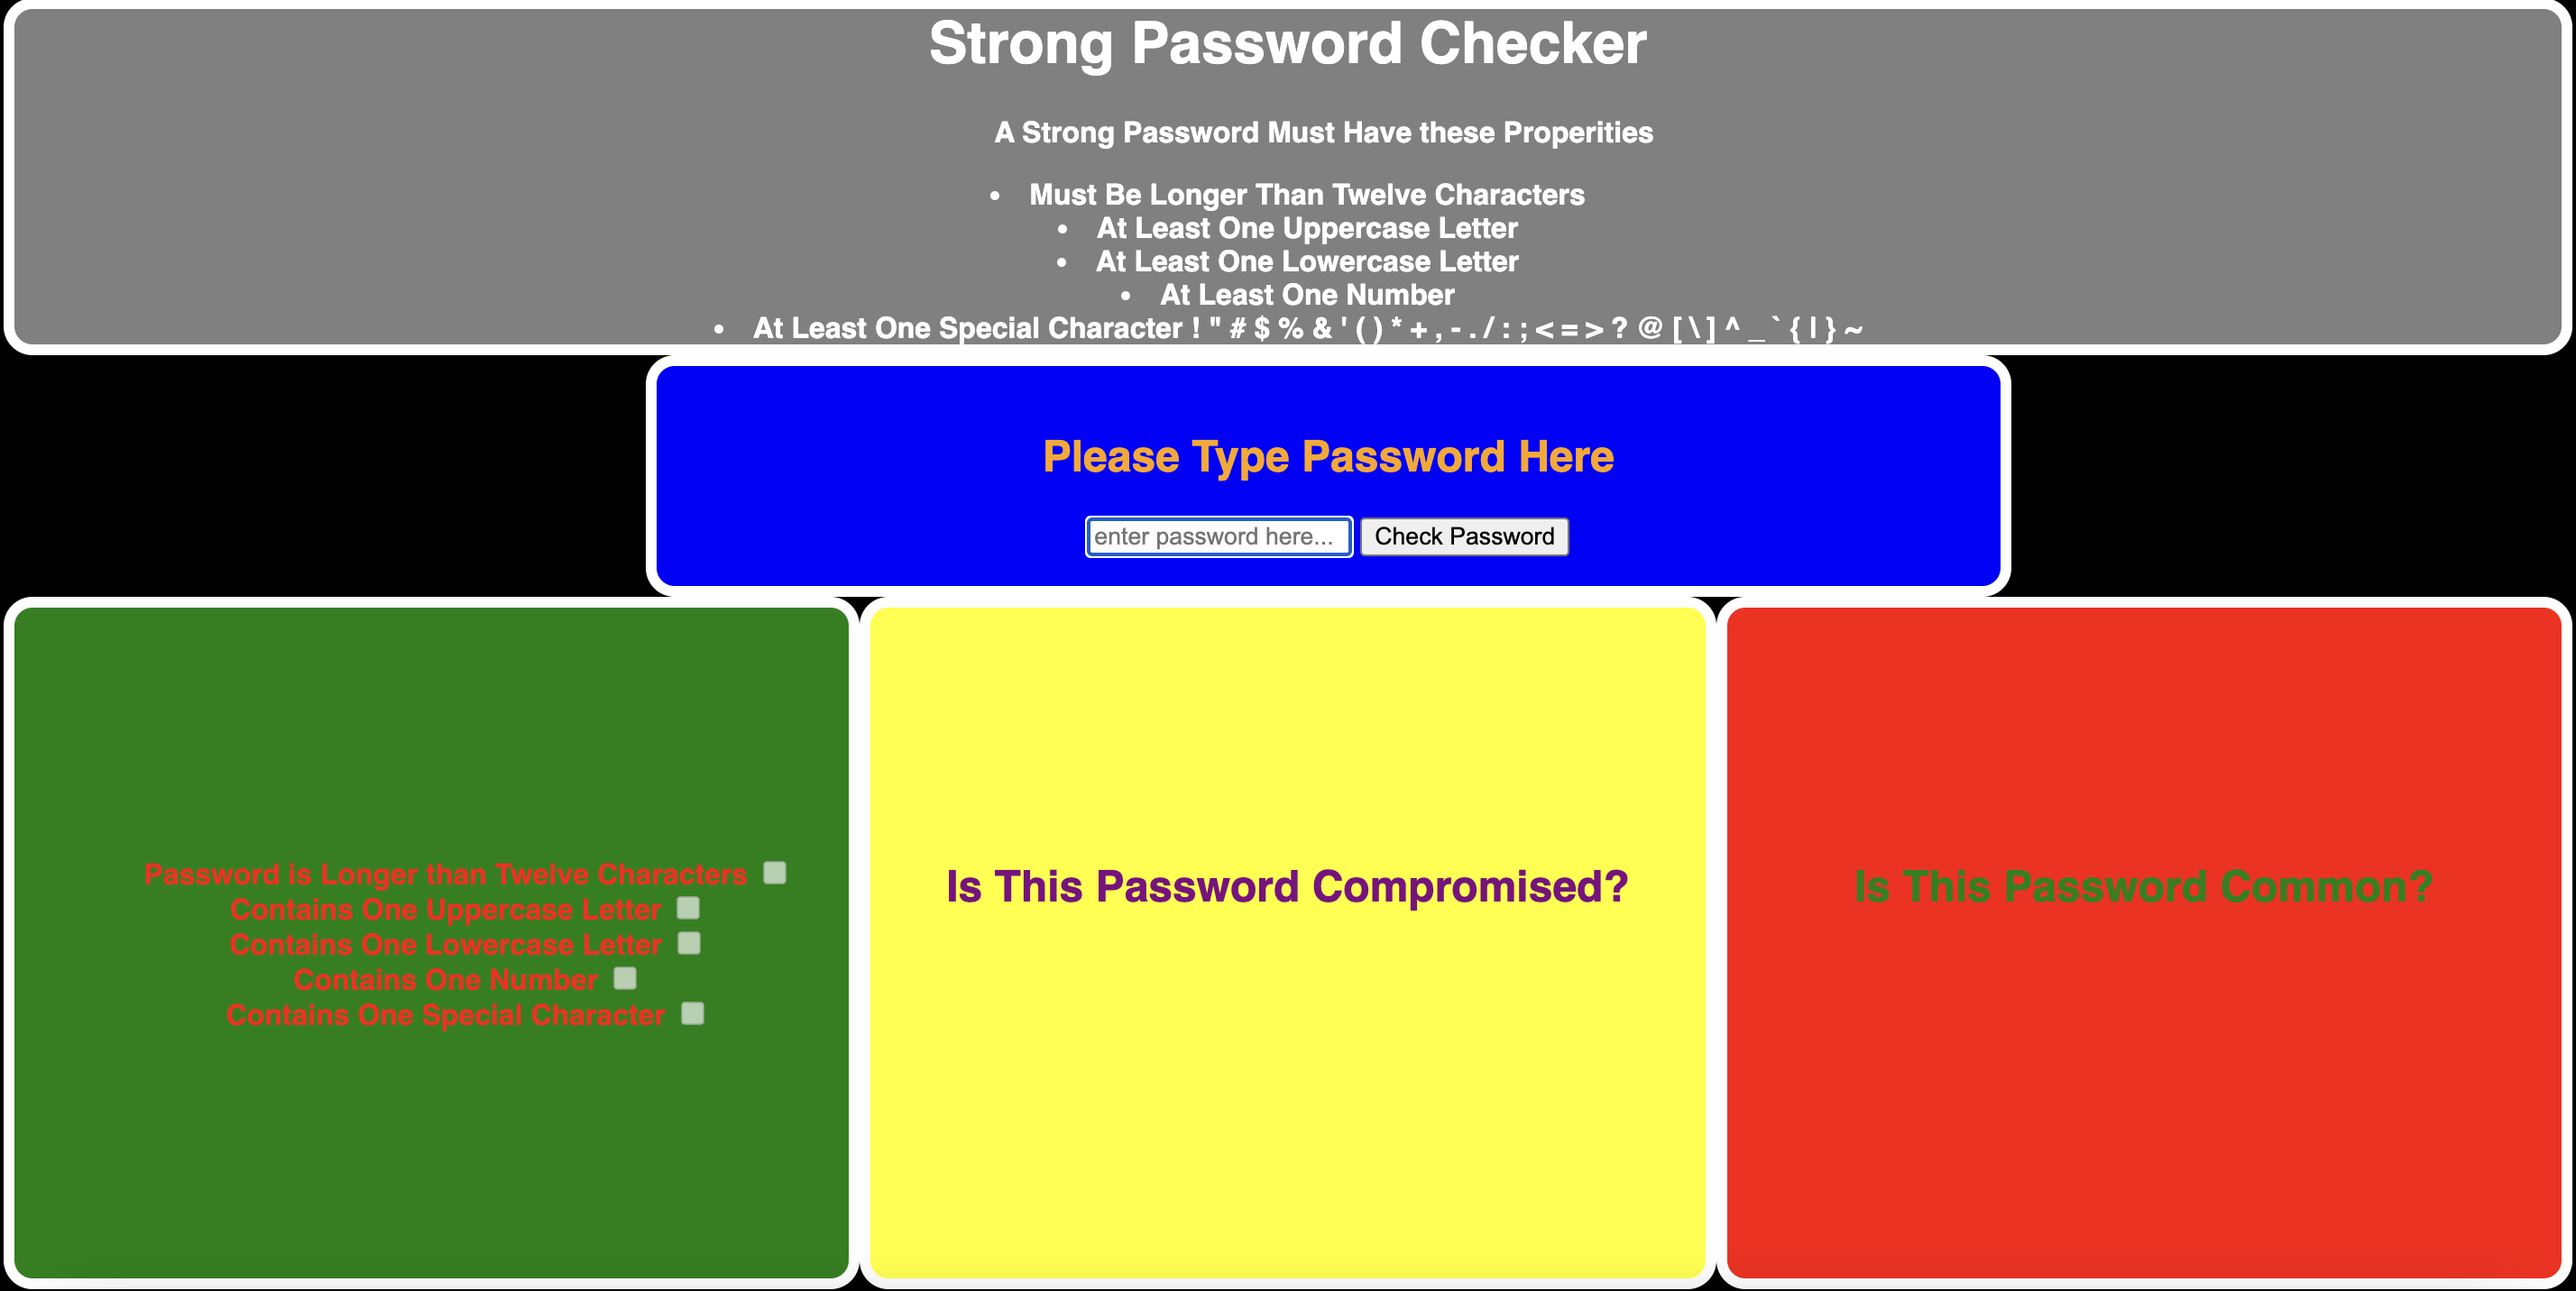
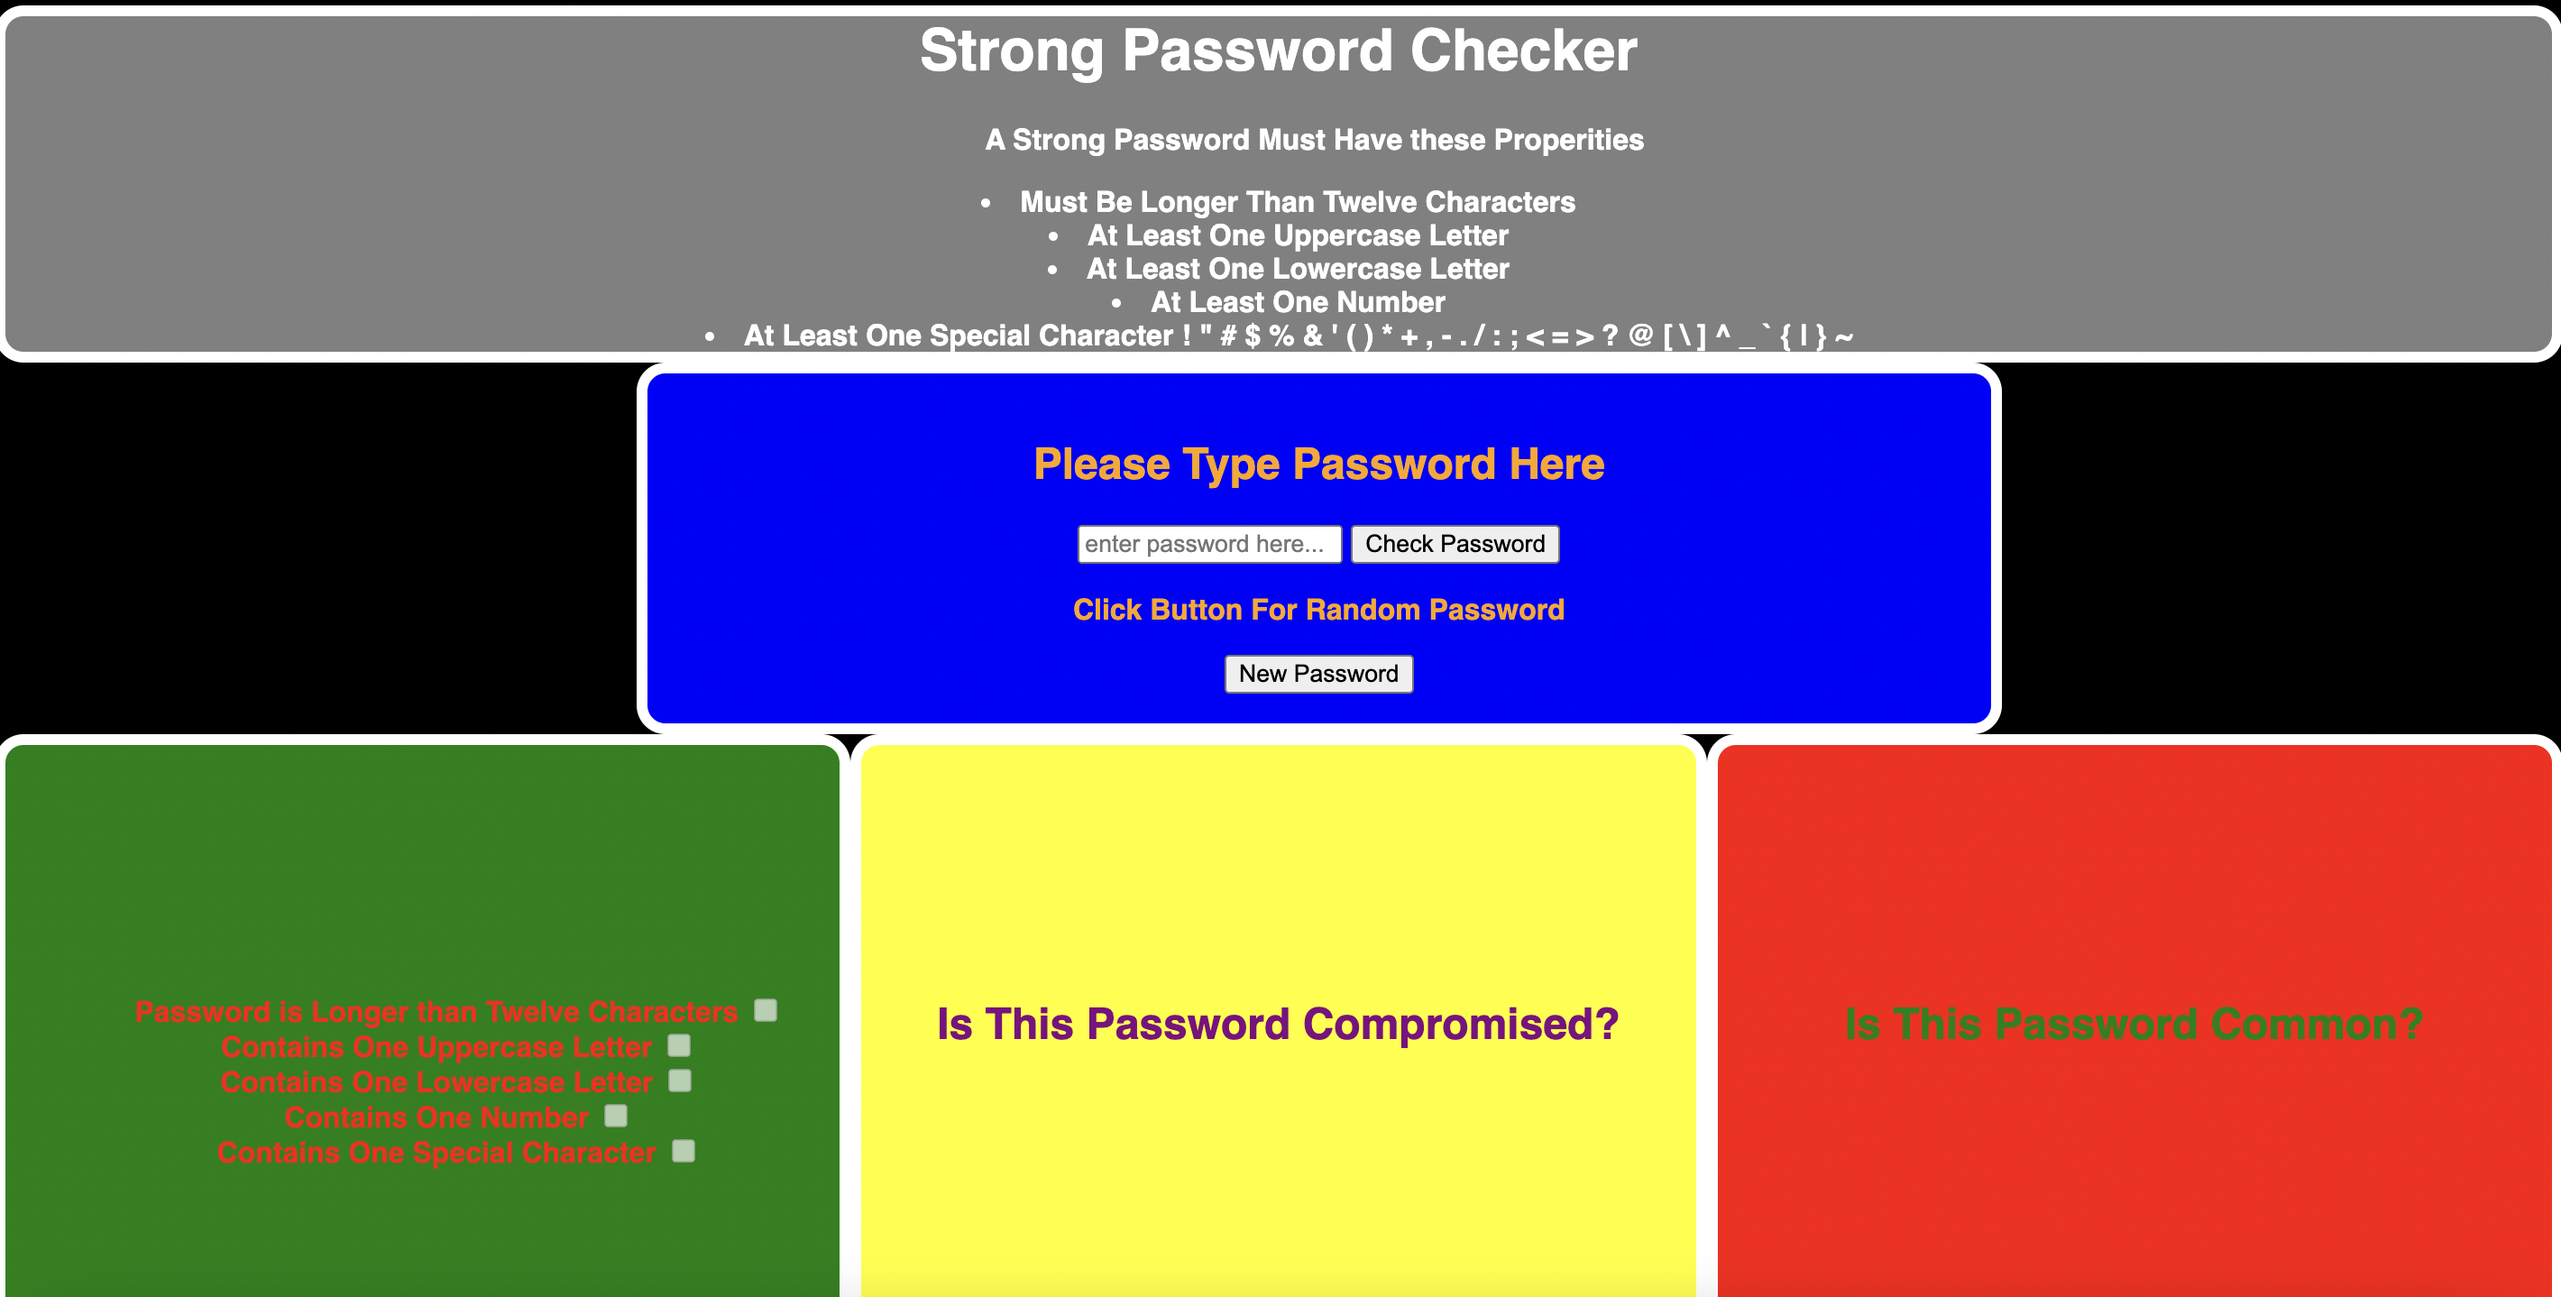
eighth update to readme

diff --git a/index.js b/index.js
@@ -40,10 +40,12 @@ compromisedPasswordH2.addEventListener('click', ()=>{
 })
 
 newPassBtn.addEventListener('click', () => {
-    const p = newPassBtn.previousElementSibling;
     fetch('https://makemeapassword.ligos.net/api/v1/passphrase/json?sp=n')
         .then(Response => Response.json())
-        .then(json => p.textContent = json['pws'][0])
+        .then(json => {
+            const p = newPassBtn.previousElementSibling;
+            p.textContent = json['pws'][0];
+        })
 })
 
 function passwordStrength(password) {

diff --git a/README.md b/README.md
@@ -16,21 +16,28 @@ Upon forking and downloading repo, you will be able to open the index.html and b
 
 ![alt text](https://github.com/manymusa/phase-1-project/blob/main/first%20img.png)
 
+
 The uppermost block provides strong password rules if the user is looking to create a new password.
+
+
+The middle block is where the user can create a password. There is also an option to generate a password. If you press the button that named 'New Password' a password will be provided.
+
+
+![alt text](https://github.com/manymusa/phase-1-project/blob/main/second%20img.png)
 
 While the user is typing their password, the container on the bottom left-hand side containing a line of text and a checkbox will be turned on and checked for each rule they meet. This is updated on every input.
 
 For this example, we will be using Password123! 
 
-![alt text](https://github.com/manymusa/phase-1-project/blob/main/second%20img.png)
+![alt text](https://github.com/manymusa/phase-1-project/blob/main/third%20img.png)
 
 When you click submit password, the middle and right-hand containers will populate with text informing the user if the password is among the 100 most common passwords of 2022 and if this password was found in a data breach using the have haveIBeenPwned API respectively. 
 
-![alt text](https://github.com/manymusa/phase-1-project/blob/main/third%20img.png)
+![alt text](https://github.com/manymusa/phase-1-project/blob/main/fourth%20img.png)
 
 If the password has been breached, the user can click on the suggested text to see how many times the password has been apart of a data breach 
 
-![alt text](https://github.com/manymusa/phase-1-project/blob/main/fourth%20img.png)
+![alt text](https://github.com/manymusa/phase-1-project/blob/main/fifth%20img.png)
 
 # Roadmap
 
